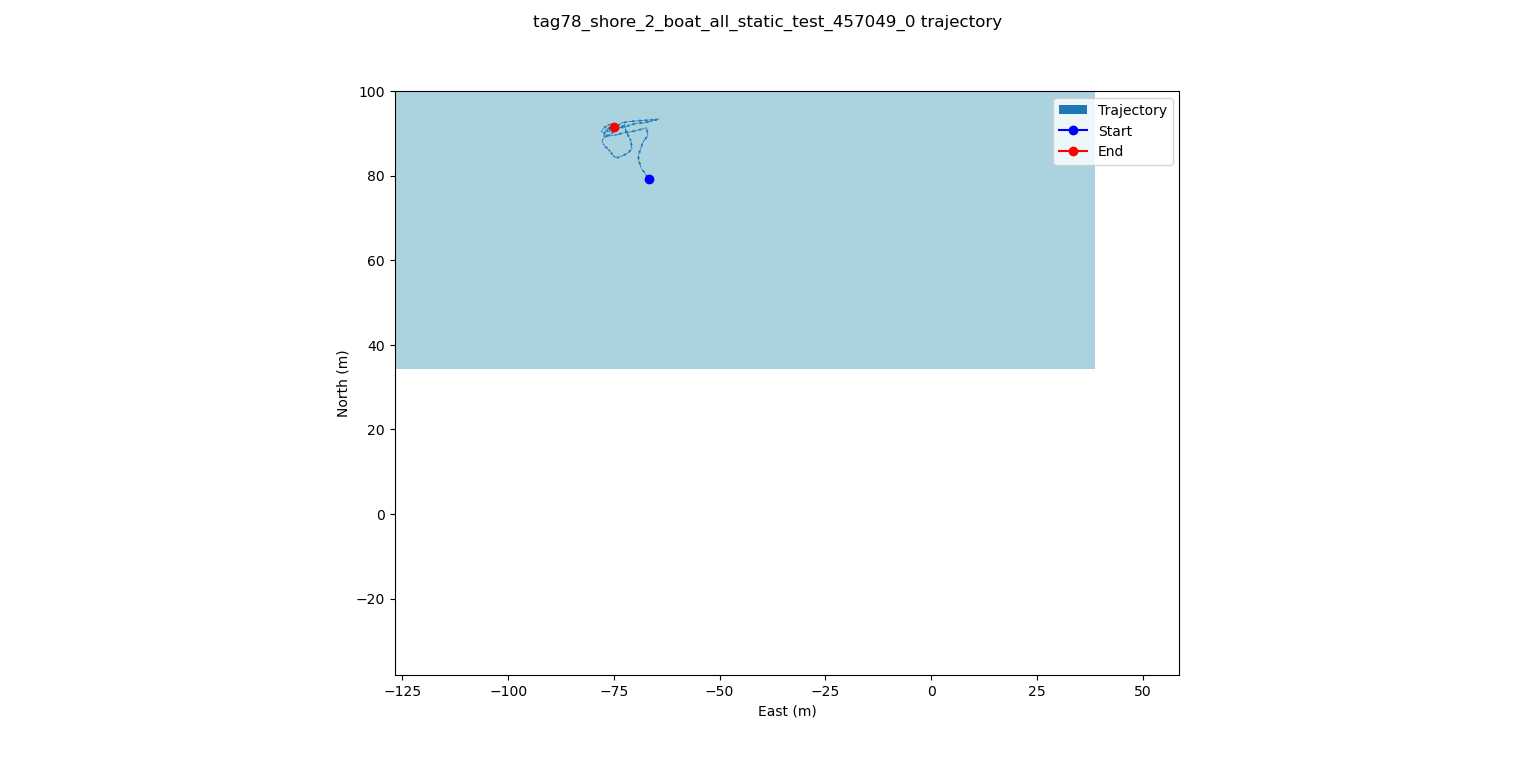
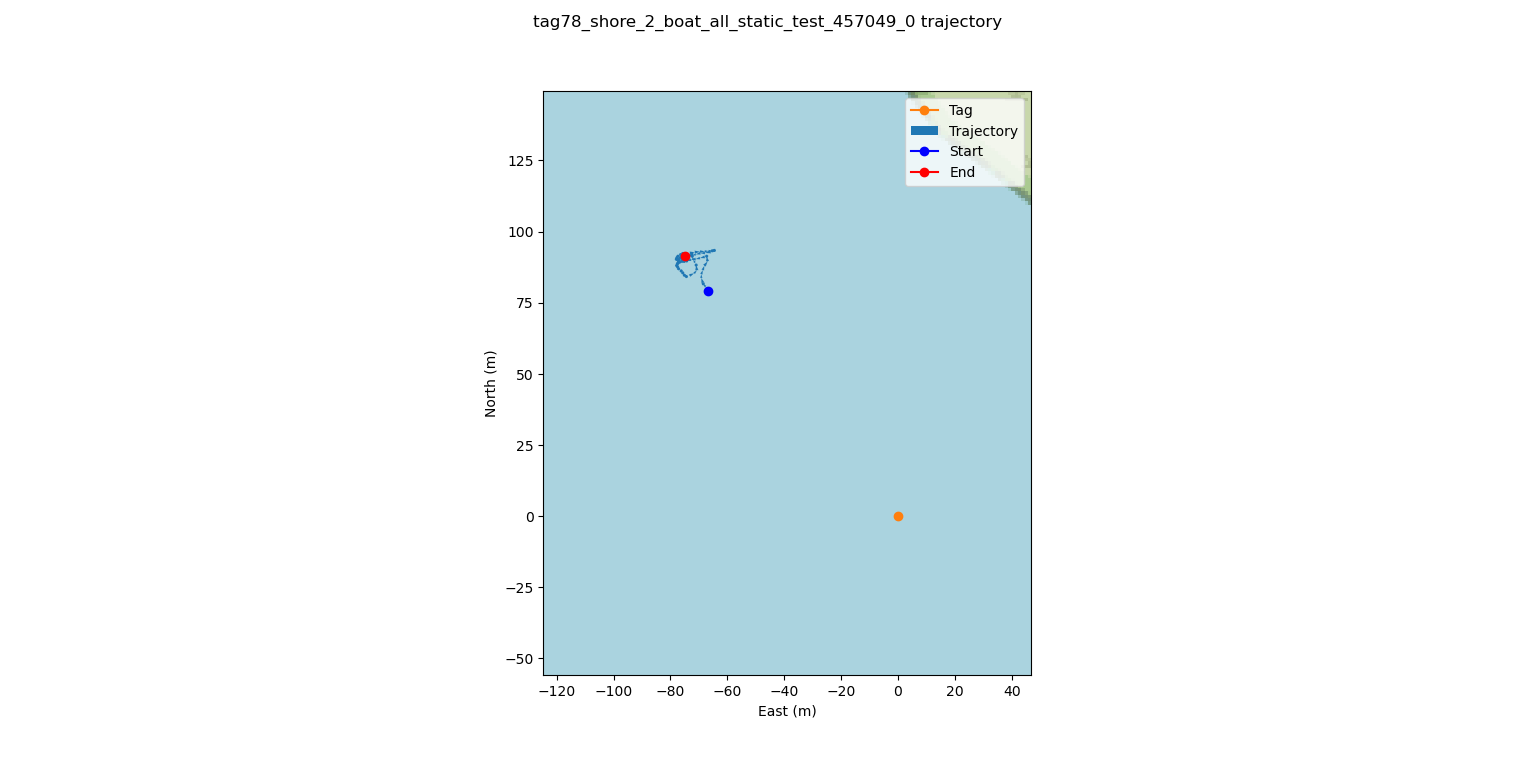
Annotated datasets

diff --git a/scripts/analyze.py b/scripts/analyze.py
@@ -60,7 +60,9 @@ if has_times:
 
 # Plot trajectory
 if 'x' in data.columns and 'y' in data.columns:
-    if origin is None and 'latitude' in data.columns and 'longitude' in data.columns:
+    if origin is not None:
+        plt.plot([0], [0], marker='o', color='#ff7f0e', label='Tag')
+    elif 'latitude' in data.columns and 'longitude' in data.columns:
         origin = data['latitude'][0], data['longitude'][0]
     x, y = np.array(data['x']), np.array(data['y'])
     x = x[~np.isnan(x)]
@@ -72,7 +74,6 @@ if 'x' in data.columns and 'y' in data.columns:
     # plt.plot(data['x'], data['y'], marker='.', label='Hydrophone trajectory')
     plt.plot(x[0], y[0], marker='o', color='blue', label='Start')
     plt.plot(x[-1], y[-1], marker='o', color='red', label='End')
-    # plt.plot([0], [0], marker='o', color='#ff7f0e', label='Tag')
 
     cartesian_bounds = np.array([plt.gca().get_xlim(), plt.gca().get_ylim()])
     cartesian_bounds = utils.pad_bounds(cartesian_bounds.T, f=2).T

diff --git a/scripts/convert_vr100.py b/scripts/convert_vr100.py
@@ -4,9 +4,9 @@ import utils
 import os
 import numpy as np
 
-datapath = '../data/07-18-2022/VR100_10913_D2022.07.18T12.52.20.csv'
+datapath = '../data/07-19-2022/VR100_10913_D2022.07.20T09.29.53.csv'
 filepath, fileext = os.path.splitext(datapath)
-savepath = '../data/07-18-2022/tag78_swimming_test_VR100_1.csv'
+savepath = '../data/07-19-2022/tag78_shore_2_boat_all_static_test_VR100_0.csv'
 # savepath = '{}_converted.{}'.format(filepath, fileext)
 
 # Read vr100 csv

diff --git a/scripts/add_columns.py b/scripts/add_columns.py
@@ -40,7 +40,7 @@ speed_of_sound = 1460
 # 07-19-2022 Santa Elena Bay tag buoy 0 coords
 tag_coords = (10.9247035, -85.79533716666667)
 
-targetpath = '../data/07-19-2022/tag78_shore_2_boat_all_static_test_457049_0.csv'
+targetpath = '../data/07-19-2022/tag78_shore_2_boat_all_static_test_VR100_0.csv'
 sourcepath = None
 # sourcepath = '../data/06-29-2022/tag78_cowling_small_snail_BFS_test_uvc_log_0.csv'
 
